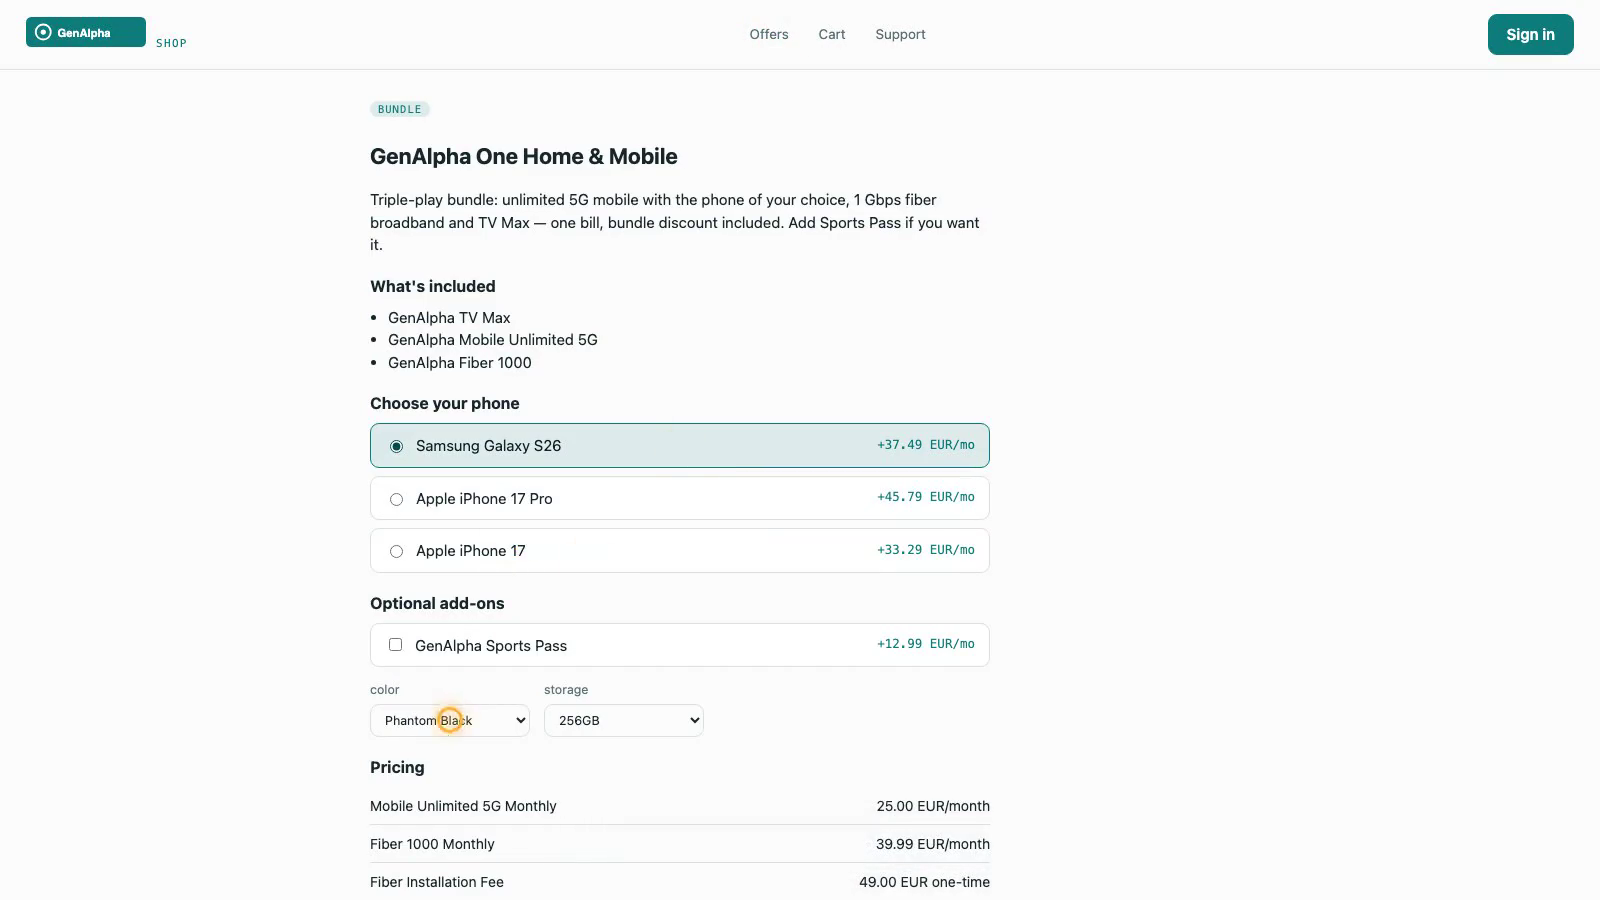
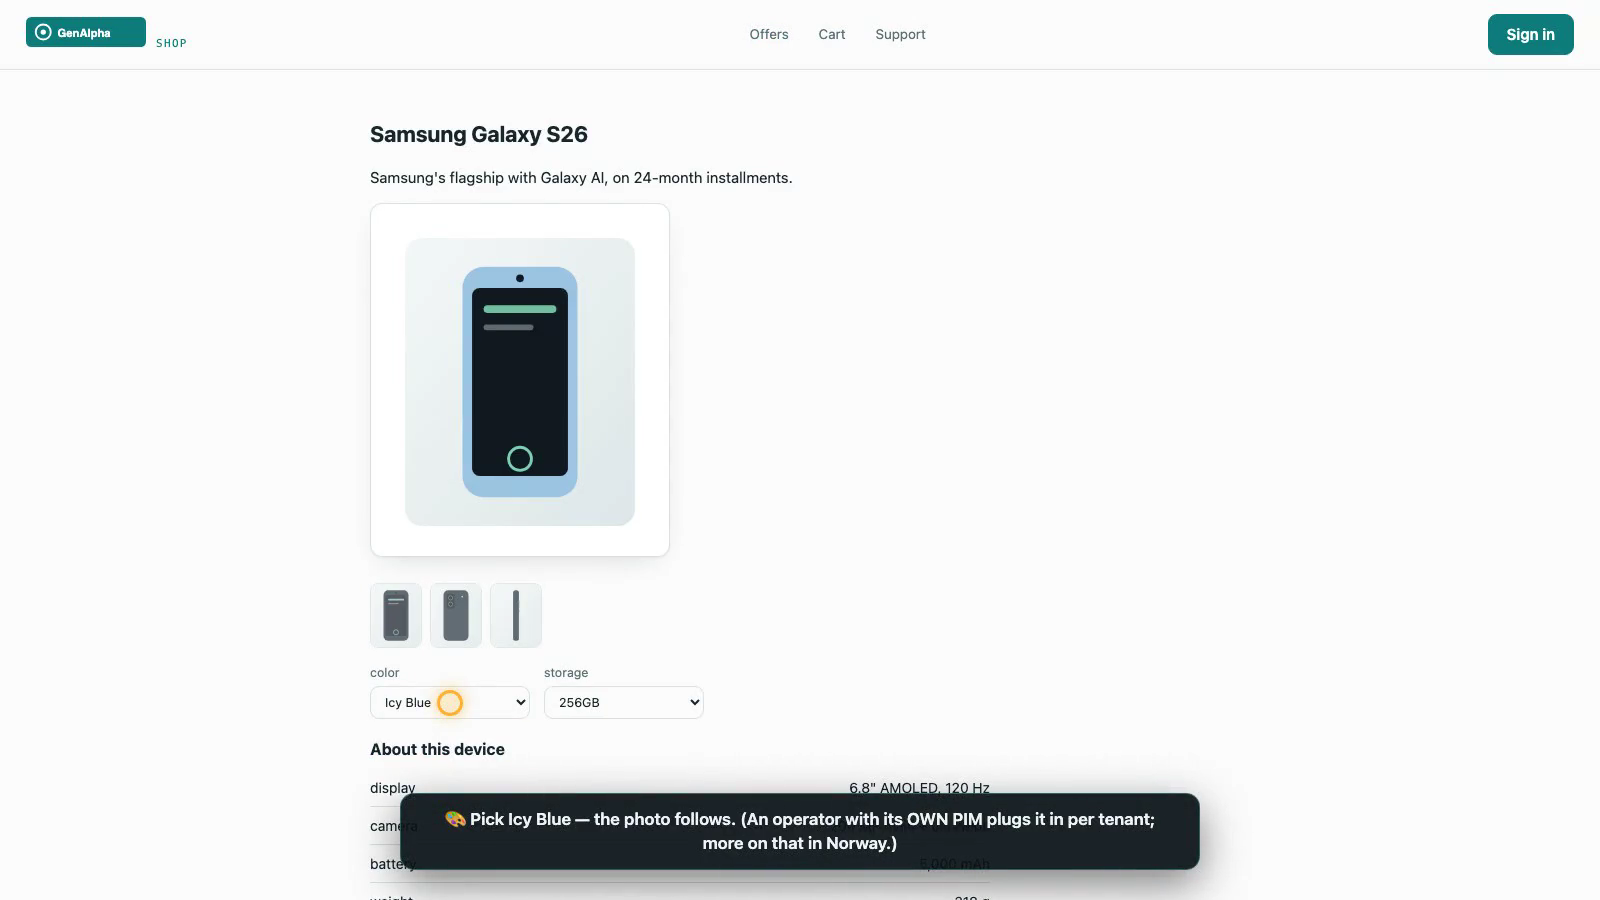
docs+film: device imagery on camera — no PIM needed, any PIM welcome
- journey film v9 (3:38): Scene 1 opens on the Samsung device page — real
  gallery, About-this-device facts, and the hero photo following the Icy
  Blue pick, captioned "no PIM needed, this is the catalog and document
  store". The Norwegian act answers it: Nordic Phone X's gallery resolved
  LIVE from Nova's own PIM, keyed by product name, same storefront build.
  Poster refreshed to the colour-pick moment
- book: ch22 gains "The shop gets eyes" — why neither building a PIM into
  the catalog nor requiring one is right, the attachment-name semantics,
  and Nova as the bring-your-own-PIM proof; tallies at twenty-three suites;
  PDF rebuilt
- README film synopsis covers both content paths

Verified take (all 18 scene markers, exit 0) before converting.

diff --git a/docs/book/book.html b/docs/book/book.html
@@ -119,7 +119,7 @@
     <h3>What this book is</h3>
     <p class="drop">This is the story of building a telecom Business Support System — the software an
     operator sells, bills, and serves customers through — from an empty repository to thirty-one
-    composable components, six customer surfaces, and twenty-two end-to-end test suites that all pass
+    composable components, six customer surfaces, and twenty-three end-to-end test suites that all pass
     in a real browser. It was built by one person working with an AI pair, over a compressed and
     relentless arc, held together by a single discipline: <em>nothing is real until it is proven, end
     to end, against the real thing.</em></p>
@@ -1310,6 +1310,35 @@
     minting a phantom phone line with its own SIM, and the film's Norwegian take caught the partner
     machinery failing for the second tenant — one missing per-realm grant. Both fixed, both re-proven,
     both on camera in the next cut.</p>
+
+    <h4>The shop gets eyes</h4>
+    <p>A phone sold as a row of text is a spec sheet, not a phone. The question behind the fix was
+    architectural before it was visual: where should product imagery <em>live</em>? Retail has a whole
+    product category for this — the PIM, product information management — and the tempting answers
+    were both wrong. Building a full PIM into the catalog would weld a content factory onto the
+    commerce spine; requiring one would make a heavyweight system a prerequisite for showing a
+    picture of a Samsung.</p>
+
+    <p>The answer was the same shape as the PSP, BankID and the porting clearinghouse: a seam. The
+    catalog stays the only face a channel ever sees — imagery is the standard TMF620 attachment list,
+    facts are spec characteristics — and where the content <em>comes from</em> is per-tenant
+    configuration. By default it's the document component the stack already had: the product owner
+    uploads gallery shots and colour variants on the offering form, no JSON, no extra system, and
+    that is genuinely enough for a telco's device range. The names carry the semantics: a
+    <code>gallery-*</code> attachment builds the product page's photo strip and puts phone
+    <em>pictures</em> in the bundle configurator; a <code>variant-Icy Blue</code> attachment makes
+    the hero photo follow the colour picker; a characteristic marked non-configurable renders as an
+    "About this device" table — display, camera, battery — instead of a dropdown.</p>
+
+    <p>And when an operator already owns a PIM — years of curated content, a merchandising team that
+    lives in it — they keep it. One registry entry points the tenant's catalog at their system, and
+    offering reads resolve imagery live, keyed by product <em>name</em>, because their PIM has never
+    heard of our UUIDs. Cached for a minute, failing open to whatever the catalog stores: content
+    must never block commerce. Nova became the living proof — a "Nordic Phone X" created in its
+    catalog with zero artwork arrives in the shop with a full gallery served from Nova's own system,
+    through the same gateway, on the same storefront build. The twenty-third suite walks both paths
+    and can't tell them apart from the browser, which is precisely the claim: no PIM required, any
+    PIM welcome.</p>
   </section>
 
   <!-- Ch 23 -->
@@ -1427,7 +1456,7 @@
     <div class="epi">"Make it work, make it right, make it fast." <span class="who">— Kent Beck</span></div>
 
     <p class="drop">Thirty-one components. Six customer surfaces, one of them wearing two faces by
-    role. Twenty-two end-to-end suites, all green in a real browser. Eleven official conformance kits
+    role. Twenty-three end-to-end suites, all green in a real browser. Eleven official conformance kits
     passing with zero failures — and two components that fail their kits on purpose, with the reasons
     written down. Business rules, prices and corporate deals that change with a row, never a redeploy.
     Isolation proven against a real database — and then proven again in Norwegian, in kroner, B2C and

diff --git a/ops/e2e/journey_video.js b/ops/e2e/journey_video.js
@@ -138,6 +138,20 @@ async function confirmLogout(page) {
   console.log('· SCENE1-shop');
   await caption(page, '🛍  A customer lands on the shop — no account, just browsing.');
   await captionOff(page);
+  // devices sell like devices: gallery, facts, and the photo follows the colour
+  await glideClick(page, page.locator('.card', { hasText: 'Samsung Galaxy S26' }).first());
+  await page.waitForSelector('[data-testid=offer-gallery]', { timeout: 15000 });
+  await page.waitForTimeout(600);
+  await caption(page, '📸  Devices sell like devices: gallery, facts, colour shots — no PIM needed, this is the catalog and document store.', 3400);
+  const shopColorSel = page.locator('.charfield', { hasText: 'color' }).locator('select');
+  await glideClick(page, shopColorSel);
+  await shopColorSel.selectOption('Icy Blue');
+  await page.waitForTimeout(900);
+  await caption(page, '🎨  Pick Icy Blue — the photo follows. (An operator with its OWN PIM plugs it in per tenant; more on that in Norway.)', 3400);
+  await captionOff(page);
+  console.log('· SCENE1-device-gallery');
+  await page.goBack();
+  await page.waitForSelector('.card', { timeout: 15000 });
   await glideClick(page, page.locator('text=GenAlpha One Home & Mobile').first());
   await page.waitForSelector('.choice', { timeout: 20000 });
   await page.locator('.optprice').first().waitFor({ timeout: 15000 });
@@ -410,6 +424,15 @@ async function confirmLogout(page) {
   console.log('· SCENE5-nova');
   await caption(page, '🇳🇴  One more thing. Same build, different operator: Nova Telecom of Norway.', 3000);
   await captionOff(page);
+  // bring-your-own-PIM: Nova's device imagery arrives from ITS system
+  await glideClick(page, page.locator('.card', { hasText: 'Nordic Phone X' }).first());
+  await page.waitForSelector('[data-testid=offer-gallery]', { timeout: 15000 });
+  await page.waitForTimeout(700);
+  await caption(page, '🖼  Nova already owns a PIM — so it plugs it in. This gallery is resolved LIVE from Nova\'s own system, keyed by product name. Nothing authored in the BSS, same storefront build.', 4400);
+  await captionOff(page);
+  console.log('· SCENE5-nova-pim');
+  await page.goBack();
+  await page.waitForSelector('.card', { timeout: 15000 });
   await glideClick(page, page.locator('.who >> text=Logg inn'));
   await page.waitForSelector('input[name="username"]', { timeout: 20000 });
   await lens(page);

diff --git a/README.md b/README.md
@@ -27,12 +27,14 @@ intentional hardened gaps (payment, communication) — in
 ## A look at it
 
 **🎬 The journey film — a human using the real product, filmed across every screen.**
-One take, no mocks: Mia configures the bundle, joins mid-checkout, pays; the back office composes
-Family Max and ships a 15% pricing rule — as data; an agent fulfils her order; her number, SIM PUK,
-Netflix entitlement and inbox light up in the shop; Emil carries his company line on mobile;
-Norway's Nova Telecom runs the same build in Norwegian and kroner — Nils changes plans, Birgit
-reads Fjellheim's consolidated invoice and sets the **split-billing device allowance**; and Live
-Flow narrates every event underneath, on a quantum-ready Java 25 fleet.
+One take, no mocks: Mia browses the Samsung with a real **photo gallery whose hero follows the
+colour pick** (no PIM — catalog + document store), configures the bundle, joins mid-checkout, pays;
+the back office composes Family Max and ships a 15% pricing rule — as data; an agent fulfils her
+order; her number, SIM PUK, Netflix entitlement and inbox light up in the shop; Emil carries his
+company line on mobile; Norway's Nova Telecom runs the same build in Norwegian and kroner — its
+device imagery arrives live from **Nova's own PIM**, Nils changes plans, Birgit reads Fjellheim's
+consolidated invoice and sets the **split-billing device allowance**; and Live Flow narrates every
+event underneath, on a quantum-ready Java 25 fleet.
 **[▶ Watch the journey (MP4)](docs/media/journey.mp4)** · re-record any time with
 `node ops/e2e/journey_video.js`
 